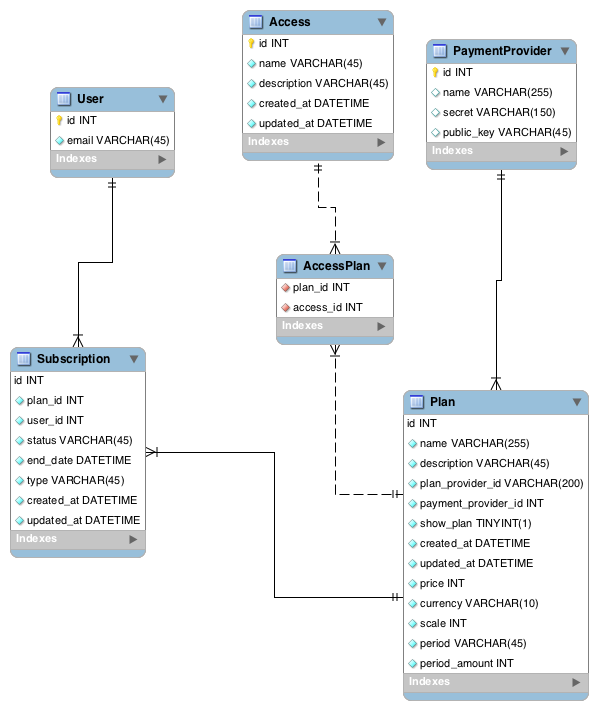
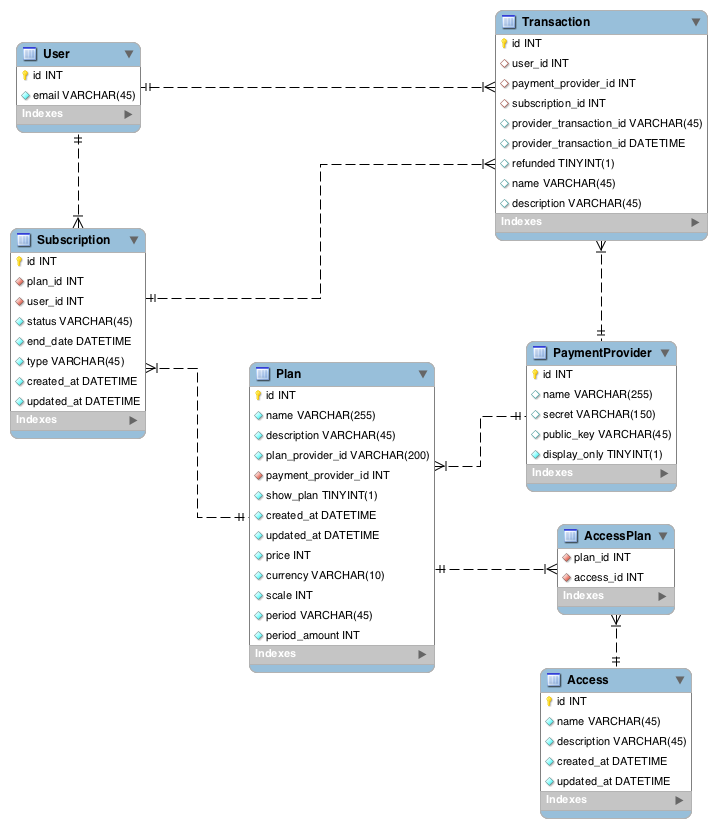
updating db and questions

diff --git a/README.md b/README.md
@@ -5,6 +5,14 @@ Subscription Bundle For Symfony
 
 ## Database Schema
 
+### Questions we want to answer
+
+- Does the user have access to a feature?
+- How much time does the user have on their subscription?
+- What transaction has the customer made?
+- Can customer change to a new plan?
+
+
 ![Subscription Database](/docs/subscription_database.png)
 
 ## Payment Providers
@@ -16,4 +24,6 @@ Subscription Bundle For Symfony
 - Update Card
 - Resubscribe
 - Cancel
+- Refund
+- Transaction History
 
